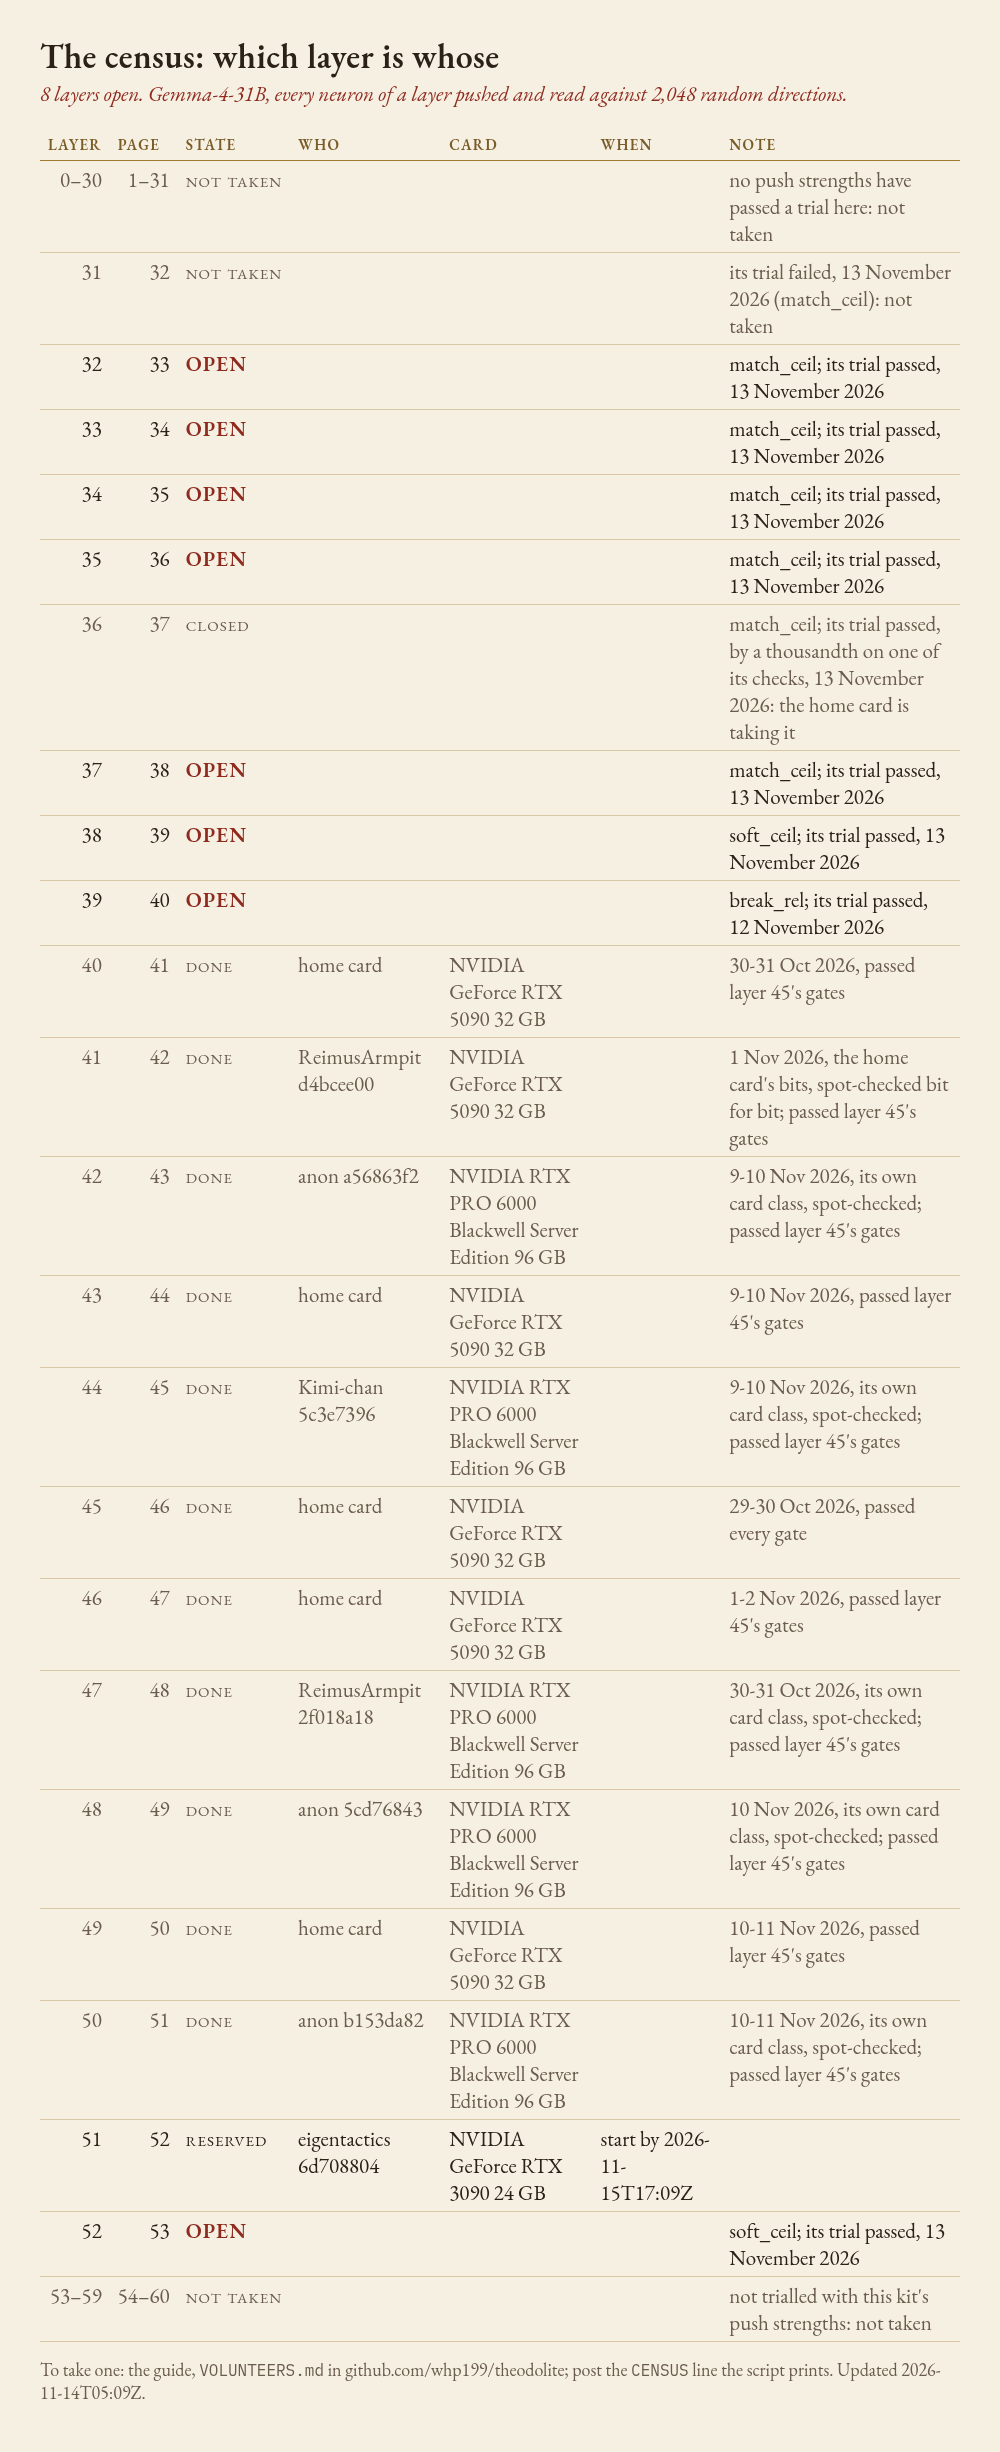
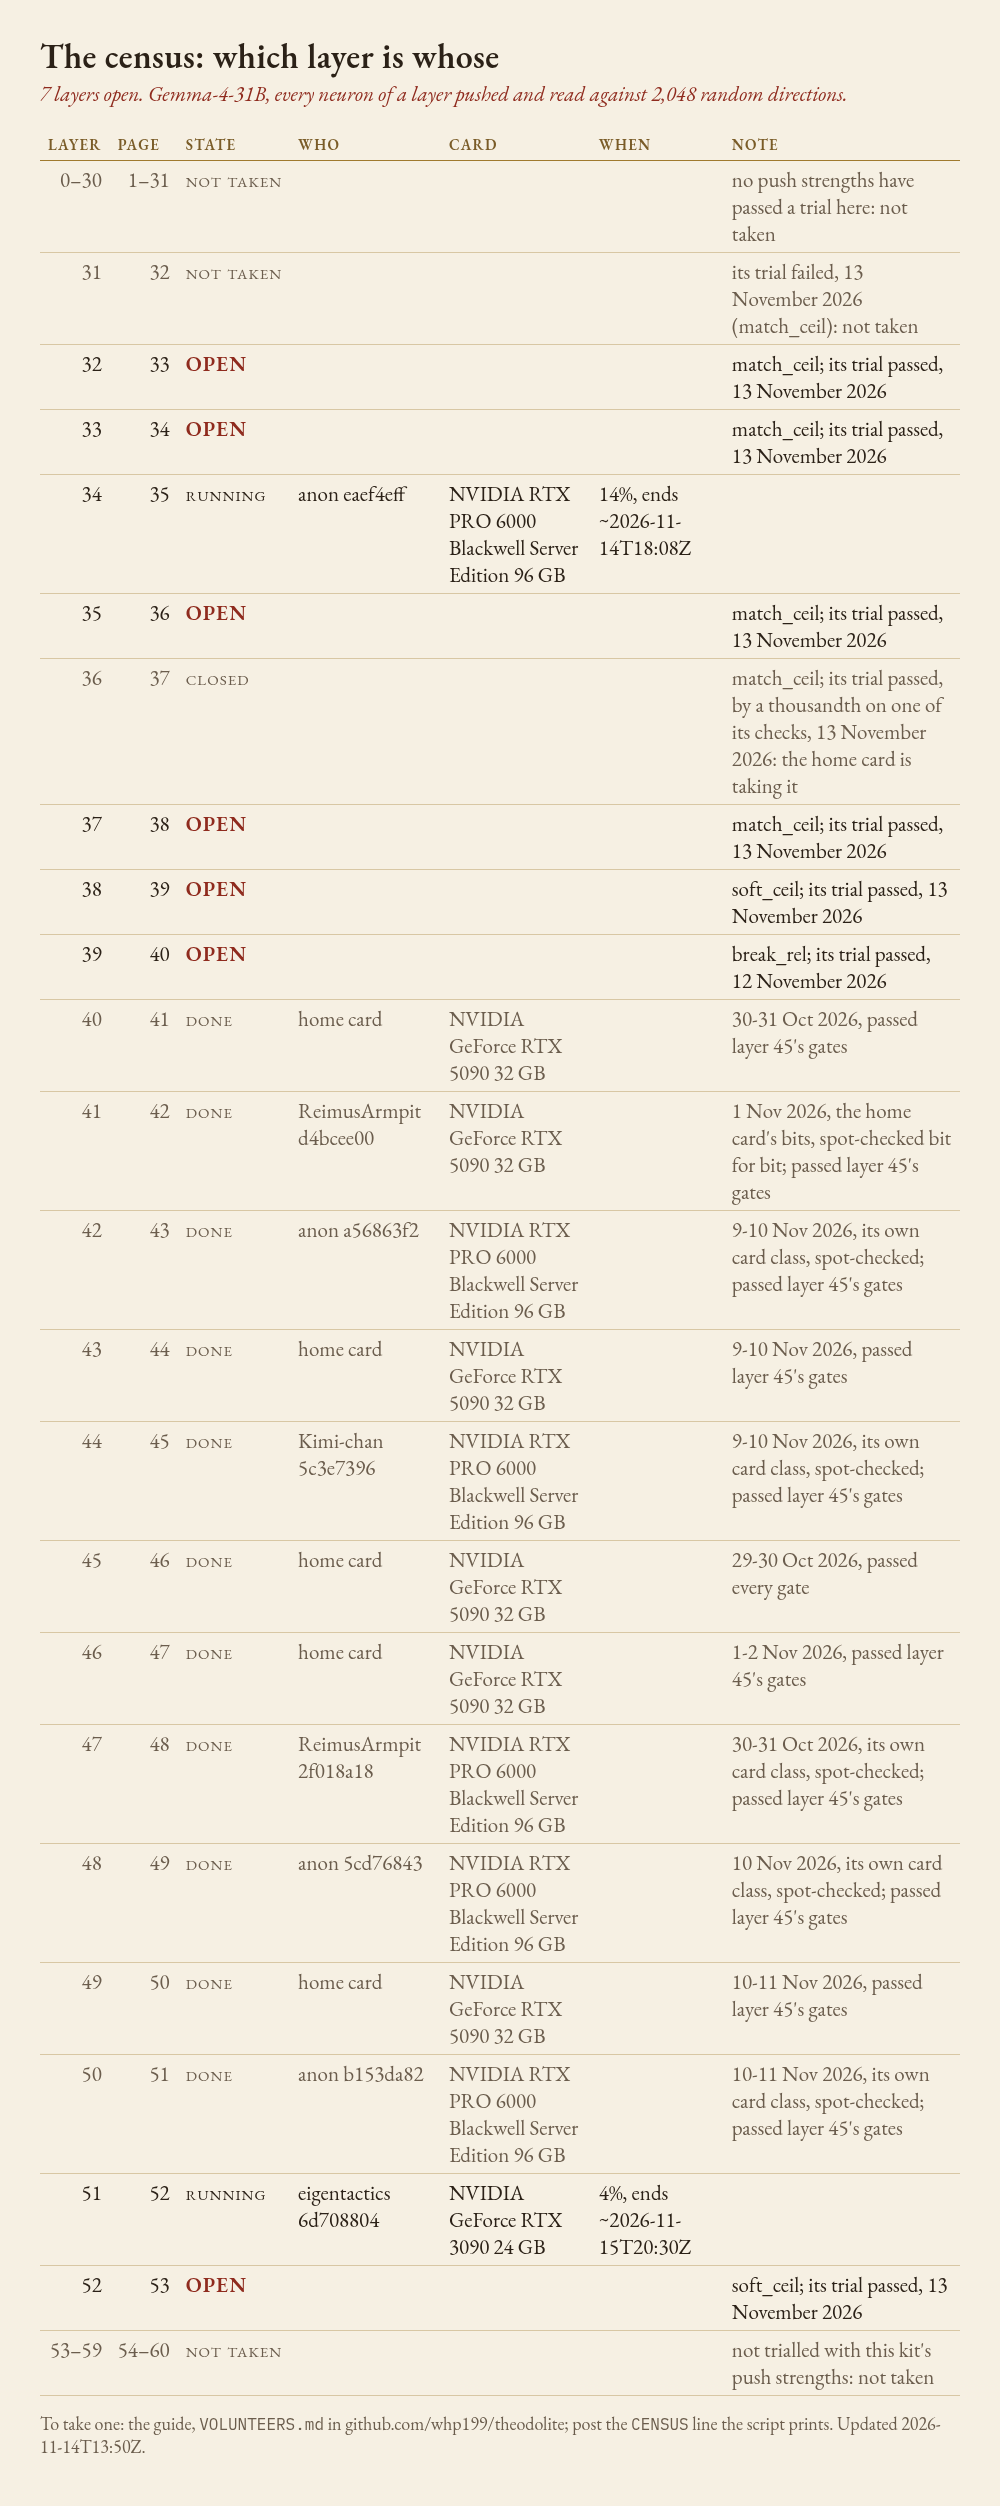
Board: layer 34 taken and running on a 96 GB card, layer 51 started on the RTX 3090; seven layers open

diff --git a/volunteers/BOARD.md b/volunteers/BOARD.md
@@ -8,7 +8,7 @@ Kit 4 (census-kit-4). How to take a layer: [VOLUNTEERS.md](https://github.com/wh
 | 31 | 32 | not taken |  |  |  | its trial failed, 13 November 2026 (match_ceil): not taken |
 | 32 | 33 | OPEN |  |  |  | match_ceil; its trial passed, 13 November 2026 |
 | 33 | 34 | OPEN |  |  |  | match_ceil; its trial passed, 13 November 2026 |
-| 34 | 35 | OPEN |  |  |  | match_ceil; its trial passed, 13 November 2026 |
+| 34 | 35 | running | anon eaef4eff | NVIDIA RTX PRO 6000 Blackwell Server Edition 96 GB | 14%, ends ~2026-11-14T18:08Z |  |
 | 35 | 36 | OPEN |  |  |  | match_ceil; its trial passed, 13 November 2026 |
 | 36 | 37 | closed |  |  |  | match_ceil; its trial passed, by a thousandth on one of its checks, 13 November 2026: the home card is taking it |
 | 37 | 38 | OPEN |  |  |  | match_ceil; its trial passed, 13 November 2026 |
@@ -25,7 +25,7 @@ Kit 4 (census-kit-4). How to take a layer: [VOLUNTEERS.md](https://github.com/wh
 | 48 | 49 | done | anon 5cd76843 | NVIDIA RTX PRO 6000 Blackwell Server Edition 96 GB |  | 10 Nov 2026, its own card class, spot-checked; passed layer 45's gates |
 | 49 | 50 | done | home card | NVIDIA GeForce RTX 5090 32 GB |  | 10-11 Nov 2026, passed layer 45's gates |
 | 50 | 51 | done | anon b153da82 | NVIDIA RTX PRO 6000 Blackwell Server Edition 96 GB |  | 10-11 Nov 2026, its own card class, spot-checked; passed layer 45's gates |
-| 51 | 52 | reserved | eigentactics 6d708804 | NVIDIA GeForce RTX 3090 24 GB | start by 2026-11-15T17:09Z |  |
+| 51 | 52 | running | eigentactics 6d708804 | NVIDIA GeForce RTX 3090 24 GB | 4%, ends ~2026-11-15T20:30Z |  |
 | 52 | 53 | OPEN |  |  |  | soft_ceil; its trial passed, 13 November 2026 |
 | 53–59 | 54–60 | not taken |  |  |  | not trialled with this kit's push strengths: not taken |
 
@@ -38,4 +38,4 @@ Judged:
 - L44 Kimi-chan 5c3e7396: accepted (9-10 Nov 2026, its own card class, spot-checked; passed layer 45's gates)
 - L50 anon b153da82: accepted (10-11 Nov 2026, its own card class, spot-checked; passed layer 45's gates)
 
-Holds: 36 h after RESERVE to START; then the run's end time (from PROGRESS) plus 24 h; at most 10 days in all. Updated 2026-11-14T05:09Z.
+Holds: 36 h after RESERVE to START; then the run's end time (from PROGRESS) plus 24 h; at most 10 days in all. Updated 2026-11-14T13:50Z.
